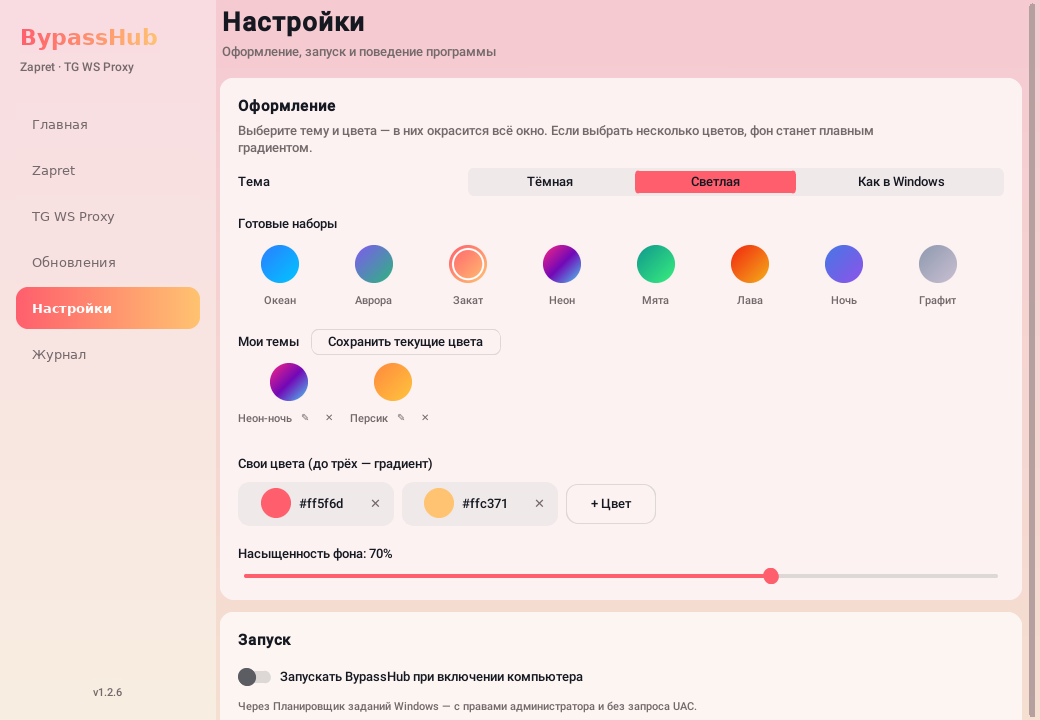
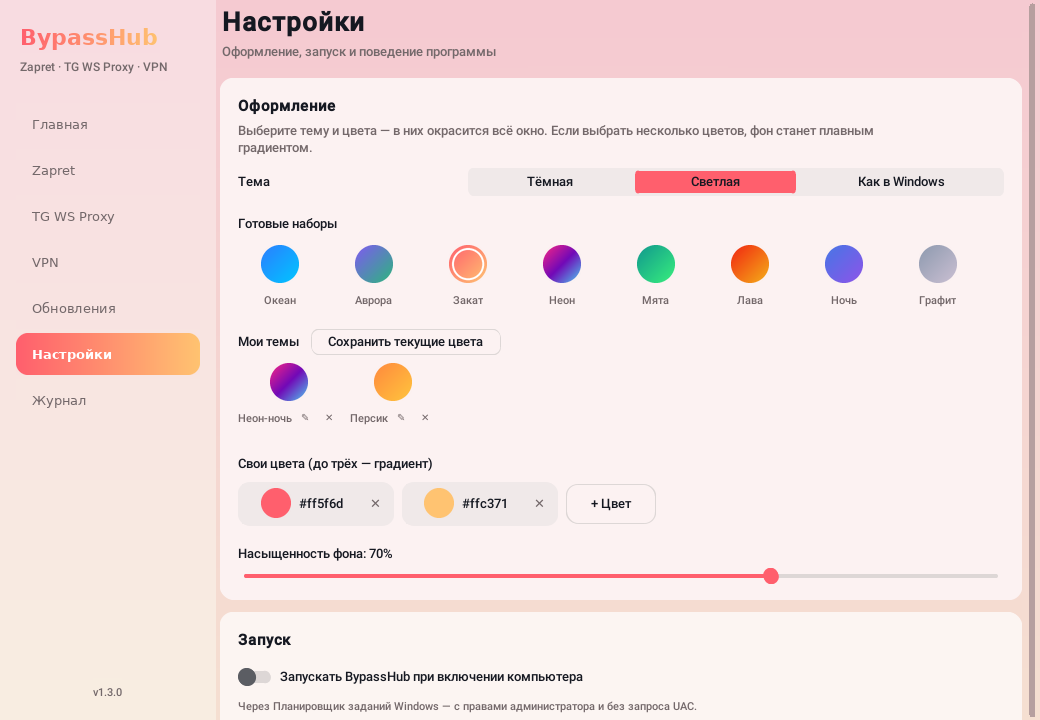
README: rewrite for the new home screen and VPN
- Describe the three-button home screen and per-service pages
- VPN and split tunneling section, updated install steps, FAQ and
  phone instructions (buttons moved to the TG WS Proxy page)
- Fresh screenshots with the VPN item in the menu; developer notes
  updated for the new home page structure

Claude-Session: https://claude.ai/code/session_019GRE8PaUXMX27CDy3uXuRW

Changed region(s): [[0.0, 0.3972, 0.2154, 0.5194], [0.0308, 0.55, 0.0923, 0.5806], [0.0308, 0.3361, 0.0615, 0.3667]]

diff --git a/README.md b/README.md
@@ -2,7 +2,7 @@
 
 # BypassHub
 
-**Zapret, TG WS Proxy и свой VPN в одной программе — включаются одной кнопкой и обновляются сами.**
+**Zapret, TG WS Proxy и свой VPN в одной программе: три кнопки — и всё работает, а обновляется само.**
 
 [![Последний релиз](https://img.shields.io/github/v/release/Miffk/BypassHub?label=%D1%80%D0%B5%D0%BB%D0%B8%D0%B7&color=7f5af0)](https://github.com/Miffk/BypassHub/releases/latest)
 [![Скачивания](https://img.shields.io/github/downloads/Miffk/BypassHub/total?label=%D1%81%D0%BA%D0%B0%D1%87%D0%B8%D0%B2%D0%B0%D0%BD%D0%B8%D1%8F&color=2cb67d)](https://github.com/Miffk/BypassHub/releases)
@@ -15,22 +15,24 @@
 
 </div>
 
-BypassHub — программа для Windows, которая собирает в одном окне:
+BypassHub — программа для Windows, которая собирает в одном окне три инструмента:
 
-- **[zapret-discord-youtube](https://github.com/Flowseal/zapret-discord-youtube)** — обход блокировок Discord, YouTube и других сайтов;
-- **[tg-ws-proxy](https://github.com/Flowseal/tg-ws-proxy)** — локальный MTProto-прокси, который ускоряет Telegram;
-- **свой VPN** — по ключу VLESS или ключу AmneziaVPN (AmneziaWG), с раздельным туннелированием: российское — напрямую.
+| | Что делает |
+|---|---|
+| **Zapret** | Обход замедления и блокировок Discord, YouTube и других сайтов — на основе [zapret-discord-youtube](https://github.com/Flowseal/zapret-discord-youtube). Без VPN и без сторонних серверов. |
+| **TG WS Proxy** | Локальный MTProto-прокси [tg-ws-proxy](https://github.com/Flowseal/tg-ws-proxy), который ускоряет Telegram на компьютере и, при желании, на телефоне. |
+| **VPN** | Свой VPN по ключу **VLESS** или ключу **AmneziaVPN** (AmneziaWG) — с раздельным туннелированием: зарубежное идёт через VPN, российское — напрямую. |
 
-Больше не нужно запускать `.bat`-файлы, вспоминать пункты `service.bat`, следить за новыми версиями на GitHub
-и вручную переносить свои списки после обновления. Всё это BypassHub делает сам, а настройки обоих проектов
-доступны обычными кнопками и переключателями.
+На главной — три большие кнопки: нажали, и сервис включился. Все настройки каждого сервиса — на его странице
+в меню слева. Не нужно запускать `.bat`-файлы, искать новые версии на GitHub и переносить свои списки после
+обновления: BypassHub делает это сам.
 
 ## Содержание
 
 - [Возможности](#возможности)
 - [Скриншоты](#скриншоты)
 - [Установка и первый запуск](#установка-и-первый-запуск)
-- [VPN](#vpn)
+- [VPN и раздельное туннелирование](#vpn-и-раздельное-туннелирование)
 - [Telegram на телефоне](#telegram-на-телефоне)
 - [Вопросы и проблемы](#вопросы-и-проблемы)
 - [Где хранятся данные](#где-хранятся-данные)
@@ -40,21 +42,20 @@ BypassHub — программа для Windows, которая собирает
 
 ## Возможности
 
-### Главное
+### Главная — три кнопки
 
-- **Главная — три большие кнопки**: Zapret, TG WS Proxy и VPN включаются и выключаются одним нажатием
-  (а ещё из трея или горячей клавишей). На кнопке — состояние и доступность Discord, YouTube и Telegram.
-- **Настройки каждого сервиса** — на его странице в меню слева; там же вверху свой переключатель и подробный статус.
-- **Проверка доступности** Discord, YouTube и Telegram — каждые 3 минуты, после каждого переключения
-  и по кнопке на странице Zapret.
-- **Автоподбор стратегии zapret**: программа по очереди пробует все стратегии, проверяет сайты по TLS 1.2 и 1.3
-  и предлагает лучшую — применить её можно одной кнопкой.
-- **Значок в трее** с быстрыми переключателями; окно можно закрыть, а обход продолжит работать.
-- **Автозапуск** при включении компьютера — через Планировщик заданий Windows, без окна UAC при каждом входе.
-  Программа запоминает, что было включено, и восстанавливает это после перезагрузки.
+- **Zapret**, **TG WS Proxy** и **VPN** включаются и выключаются одним нажатием на кнопку. Включённая кнопка
+  подсвечивается цветами темы.
+- На каждой кнопке — состояние сервиса и доступность Discord, YouTube и Telegram. Доступность проверяется каждые
+  3 минуты и после каждого переключения.
+- Переключать сервисы можно и **из трея**, и **горячими клавишами** — даже когда окно свёрнуто.
+- **Автозапуск** при включении компьютера (через Планировщик заданий Windows, без окна UAC при каждом входе).
+  Программа запоминает, что было включено, и включает это снова после перезагрузки.
 
 ### Zapret — всё, что умеет `service.bat`, но кнопками
 
+- **Автоподбор стратегии**: программа по очереди пробует все стратегии, проверяет сайты по TLS 1.2 и 1.3
+  и предлагает лучшую — применить её можно одной кнопкой.
 - Выбор стратегии (`general*.bat`) и режима запуска: **«Программа»** (winws работает, пока открыт BypassHub)
   или **«Служба Windows»** (как *Install Service* — обход работает даже без BypassHub).
 - **Game Filter** (вкл/выкл, TCP/UDP, диапазоны портов) и **IPSet Filter** (none / loaded / any), обновление IPSet-списка.
@@ -66,28 +67,31 @@ BypassHub — программа для Windows, которая собирает
 
 ### TG WS Proxy — все настройки в одном окне
 
-Адрес и порт, secret, соответствие DC → IP, Cloudflare-прокси (HTTP/2, свой домен), Cloudflare Worker, подробный журнал,
-размер буфера и пула, размер лога, тестовые DC. Кнопки **«Открыть в Telegram»** (прокси добавляется в Telegram Desktop
-в один клик), **«Скопировать ссылку»** и **«Подключить телефон»**.
+- Кнопки **«Открыть в Telegram»** (прокси добавляется в Telegram Desktop в один клик), **«Скопировать ссылку»**
+  и **«Подключить телефон»** (QR-код для Telegram на телефоне).
+- Все параметры прокси: адрес и порт, secret, соответствие DC → IP, Cloudflare-прокси (HTTP/2, свой домен),
+  Cloudflare Worker, подробный журнал, размер буфера и пула, размер лога, тестовые DC.
 
 ### VPN — свой сервер
 
-- Вставьте **ключ VLESS** (`vless://…`), **ключ AmneziaVPN** (`vpn://…`), конфиг **AmneziaWG** (`.conf`) или ссылку на
-  **подписку** — и включите VPN переключателем. Можно держать несколько серверов и переключаться между ними.
-- **Раздельное туннелирование**: через VPN идёт всё зарубежное, а российское — напрямую, с домашнего IP
-  (подробнее — в разделе [VPN](#vpn)).
-- Режимы: **«Весь трафик»** (виртуальный сетевой адаптер — через VPN идут все программы, включая игры)
-  или **«Системный прокси»** (только браузеры и программы, которые учитывают настройки прокси Windows).
-- Движки — официальные [sing-box](https://github.com/SagerNet/sing-box) (VLESS) и
-  [клиент AmneziaWG](https://github.com/amnezia-vpn/amneziawg-windows-client) (AmneziaWG, в том числе протокол 3.1);
-  скачиваются с GitHub при первом включении и обновляются сами.
+- Подходят **ключ VLESS** (`vless://…`), **ключ AmneziaVPN** (`vpn://…`), конфиг **AmneziaWG** (`.conf`)
+  и **ссылка на подписку** VPN-сервиса. Можно добавить несколько серверов и переключаться между ними одним нажатием.
+- **Раздельное туннелирование**: зарубежное — через VPN, российское — напрямую с домашнего IP
+  (подробнее — [ниже](#vpn-и-раздельное-туннелирование)).
+- Два режима: **«Весь трафик»** — через VPN идут все программы, включая игры, — или **«Системный прокси»** —
+  только браузеры и программы, которые учитывают настройки прокси Windows.
+- Работает на официальных движках [sing-box](https://github.com/SagerNet/sing-box) (VLESS: Reality, TLS, WebSocket,
+  gRPC, HTTPUpgrade) и [клиенте AmneziaWG](https://github.com/amnezia-vpn/amneziawg-windows-client) (AmneziaWG,
+  включая протокол 3.1). Они скачиваются при первом включении VPN и дальше обновляются сами.
+- Проверка серверов (время отклика), обновление подписок, переименование серверов, лог VPN.
 
 ### Обновления
 
-- BypassHub сам проверяет GitHub zapret и tg-ws-proxy — при запуске и каждые 6 часов (интервал настраивается).
+- BypassHub сам следит за новыми версиями на GitHub: zapret, tg-ws-proxy, sing-box, клиент AmneziaWG и базы
+  раздельного туннелирования. Проверка — при запуске и каждые 6 часов (интервал настраивается).
 - Новые версии скачиваются и **проверяются по SHA-256**, который публикует GitHub.
 - Ваши настройки zapret (списки, Game Filter, IPSet, фейки, свои стратегии) **переносятся в новую версию**,
-  работающий обход перезапускается сам. Старые версии и временные файлы удаляются.
+  работающий сервис перезапускается сам. Старые версии и временные файлы удаляются.
 - **Самообновление**: сама программа тоже обновляется из [релизов](https://github.com/Miffk/BypassHub/releases)
   этого репозитория — скачивает новый `BypassHub.exe`, подменяет себя и перезапускается.
 
@@ -114,23 +118,24 @@ BypassHub — программа для Windows, которая собирает
 
 Любое сочетание меняется в «Настройках» (нажать на него и затем новые клавиши), каждое можно отключить,
 а можно выключить все сразу. Если сочетание уже занято другой программой, BypassHub об этом скажет.
+Когда окно скрыто, результат переключения показывается уведомлением.
 
 ### Прочее
 
-- **Резервная копия**: экспорт и импорт всех настроек (BypassHub, zapret, TG WS Proxy, серверы VPN) в один JSON-файл — удобно при переустановке Windows.
-  В файле будут и ключи VPN — храните его как пароль.
+- **Резервная копия**: экспорт и импорт всех настроек (BypassHub, zapret, TG WS Proxy, серверы VPN) в один
+  JSON-файл — удобно при переустановке Windows. В файле будут и ключи VPN — храните его как пароль.
 - **Журнал** событий прямо в программе.
 
 ## Скриншоты
 
 <table>
   <tr>
-    <td align="center"><img src="docs/screenshots/zapret.png" alt="Настройки zapret"><br><sub>Настройки zapret</sub></td>
-    <td align="center"><img src="docs/screenshots/tg-proxy.png" alt="Настройки TG WS Proxy"><br><sub>TG WS Proxy</sub></td>
+    <td align="center"><img src="docs/screenshots/zapret.png" alt="Zapret"><br><sub>Zapret: переключатель, стратегия и все настройки</sub></td>
+    <td align="center"><img src="docs/screenshots/tg-proxy.png" alt="TG WS Proxy"><br><sub>TG WS Proxy</sub></td>
   </tr>
   <tr>
+    <td align="center"><img src="docs/screenshots/vpn.png" alt="VPN"><br><sub>VPN: серверы VLESS и AmneziaWG</sub></td>
     <td align="center"><img src="docs/screenshots/settings-light.png" alt="Светлая тема и свои цвета"><br><sub>Светлая тема и свои цвета</sub></td>
-    <td align="center"><img src="docs/screenshots/color-picker.png" width="300" alt="Выбор цвета"><br><sub>Выбор цвета</sub></td>
   </tr>
 </table>
 
@@ -139,25 +144,30 @@ BypassHub — программа для Windows, которая собирает
 1. Скачайте `BypassHub.exe` со страницы **[Releases](https://github.com/Miffk/BypassHub/releases/latest)**.
    Положите его в любую удобную папку (например, `C:\Programs\BypassHub`) — установка не нужна.
 2. Запустите. Windows попросит права администратора: они нужны драйверу WinDivert, на котором работает zapret,
-   а также для служб и файла `hosts`.
+   а также для служб, файла `hosts` и сетевого адаптера VPN.
 3. При первом запуске BypassHub сам скачает последние версии zapret и tg-ws-proxy.
-4. Включите zapret на главной. Если Discord или YouTube не открываются — откройте Zapret в меню слева и нажмите **«Подобрать стратегию»**,
-   и программа найдёт рабочую стратегию для вашего провайдера.
-5. Включите TG WS Proxy и на его странице нажмите **«Открыть в Telegram»** — Telegram Desktop предложит добавить прокси.
-6. По желанию: в «Настройках» включите автозапуск, чтобы всё работало сразу после включения компьютера.
+4. На главной нажмите **Zapret**. Если Discord или YouTube не открываются — откройте Zapret в меню слева
+   и нажмите **«Подобрать стратегию»**: программа найдёт рабочую стратегию для вашего провайдера.
+5. Нажмите **TG WS Proxy**, затем на его странице — **«Открыть в Telegram»**: Telegram Desktop предложит добавить прокси.
+6. Если у вас есть свой VPN-сервер — добавьте ключ на странице VPN и нажмите **VPN** на главной
+   (см. [раздел про VPN](#vpn-и-раздельное-туннелирование)).
+7. По желанию: в «Настройках» включите автозапуск, чтобы всё работало сразу после включения компьютера.
 
 > [!TIP]
 > Если Windows Defender или другой антивирус ругается на zapret — это ожидаемо, см. [вопросы](#вопросы-и-проблемы).
 
-## VPN
+## VPN и раздельное туннелирование
 
-<img align="right" src="docs/screenshots/vpn.png" width="420" alt="Вкладка VPN">
+<img align="right" src="docs/screenshots/vpn.png" width="420" alt="Страница VPN">
 
-1. Откройте вкладку **VPN** и вставьте ключ: `vless://…` от вашего VPN-сервиса, ключ AmneziaVPN `vpn://…`
-   (в AmneziaVPN: сервер → «Поделиться») или ссылку на подписку. Конфиг AmneziaWG можно выбрать файлом.
-2. Включите VPN на главной. При первом включении BypassHub скачает нужный движок — это занимает несколько секунд.
+**Как подключить**
 
-**Раздельное туннелирование** (включено по умолчанию):
+1. Откройте **VPN** в меню слева и вставьте ключ: `vless://…` от вашего VPN-сервиса, ключ AmneziaVPN `vpn://…`
+   (в AmneziaVPN: сервер → «Поделиться») или ссылку на подписку. Конфиг AmneziaWG можно выбрать файлом `.conf`.
+2. Нажмите **VPN** на главной. При первом включении BypassHub скачает нужный движок — это несколько секунд.
+3. Если открыт AmneziaVPN или другой VPN-клиент — сначала отключитесь в нём.
+
+**Раздельное туннелирование** (включено по умолчанию)
 
 - через VPN идёт всё зарубежное;
 - напрямую, с домашнего IP, идут сайты `.ru`, `.рф`, `.su` со всеми поддоменами, российские IP-адреса и российские
@@ -165,12 +175,11 @@ BypassHub — программа для Windows, которая собирает
   [roscomvpn](https://github.com/hydraponique/roscomvpn-routing);
 - YouTube, Telegram, GitHub и Google Play всегда идут через VPN, даже если их сервер оказался на российском IP.
 
-Российский трафик вообще не попадает на VPN-сервер, а банки и Госуслуги видят обычный домашний адрес. Базы
-обновляются автоматически.
+Российский трафик вообще не попадает на VPN-сервер: банки и Госуслуги видят обычный домашний адрес, а сервер
+не тратит трафик. Базы обновляются автоматически.
 
-Для AmneziaWG раздельное туннелирование работает так: туннель AmneziaWG поднимается без своих маршрутов, а sing-box
-решает, что отправить в туннель, а что — напрямую. Если раздельное туннелирование выключить, через AmneziaWG идёт
-весь трафик, как в AmneziaVPN.
+Для AmneziaWG это работает так: туннель AmneziaWG поднимается без своих маршрутов, а sing-box решает, что отправить
+в туннель, а что — напрямую. Если раздельное туннелирование выключить, через VPN идёт весь трафик, как в AmneziaVPN.
 
 > [!IMPORTANT]
 > Ключ VPN — это пароль от вашего сервера. Не публикуйте его и не пересылайте. Если ключ попал в чужие руки,
@@ -184,13 +193,13 @@ BypassHub — программа для Windows, которая собирает
 
 <img align="right" src="docs/screenshots/phone.png" width="400" alt="Подключение телефона">
 
-1. На главной нажмите **«Подключить телефон»**.
+1. Откройте **TG WS Proxy** в меню слева и нажмите **«Подключить телефон»**.
 2. BypassHub откроет прокси для домашней сети и сам добавит правило в брандмауэр Windows.
 3. Наведите камеру телефона на QR-код, откройте ссылку — запустится Telegram.
 4. Нажмите «Подключить прокси».
 
 Адрес компьютера выбирается автоматически: адаптеры VPN и виртуальных машин пропускаются.
-Если на компьютере включён VPN, программа предупредит — он может мешать подключению.
+Если на компьютере включён сторонний VPN, программа предупредит — он может мешать подключению.
 Кнопка **«Отключить доступ»** закрывает прокси для сети и удаляет правило брандмауэра.
 
 <br clear="right">
@@ -210,33 +219,26 @@ BypassHub скачивает только официальные релизы za
 <summary><b>Discord или YouTube всё равно не работают</b></summary>
 
 - Нажмите «Подобрать стратегию» на странице Zapret — разным провайдерам подходят разные стратегии.
-- В разделе Zapret откройте диагностику: она найдёт конфликтующие службы (другие копии zapret, GoodbyeDPI и т. п.)
+- На странице Zapret откройте диагностику: она найдёт конфликтующие службы (другие копии zapret, GoodbyeDPI и т. п.)
   и может очистить кэш Discord.
 - Убедитесь, что не запущен другой zapret или GoodbyeDPI — одновременно работать может только один.
-- Обновите IPSet-список и файл `hosts` в разделе Zapret.
+- Обновите IPSet-список и файл `hosts` на странице Zapret.
 </details>
 
 <details>
 <summary><b>Перестали работать игры или Steam</b></summary>
 
-В разделе Zapret отметьте нужные программы в «Исключениях» или выключите Game Filter.
+На странице Zapret отметьте нужные программы в «Исключениях» или выключите Game Filter.
 zapret работает на уровне сетевых пакетов и не знает, какой программе принадлежит пакет, поэтому исключение
 программы — это исключение её доменов (и, в экспериментальном режиме, IP-адресов, к которым она подключена).
 </details>
 
 <details>
-<summary><b>Телефон не подключается к прокси</b></summary>
+<summary><b>Нужен ли zapret, если включён VPN?</b></summary>
 
-- Телефон и компьютер должны быть в одной Wi-Fi-сети (не в гостевой — там устройства изолированы).
-- Выключите VPN на компьютере и на телефоне.
-- Проверьте, что в окне «Подключить телефон» выбран адрес домашней сети (обычно `192.168.x.x`).
-</details>
-
-<details>
-<summary><b>Работает ли с VPN?</b></summary>
-
-Обычно VPN и zapret одновременно не нужны: VPN и так шифрует весь трафик. Если VPN включён, трафик идёт через него,
-и zapret на сайты, которые открываются через VPN, не влияет.
+Обычно нет: с VPN зарубежные сайты и так открываются. Zapret полезен без VPN — например, если VPN-сервера нет или
+не хочется гонять YouTube через сервер. Если при включённых zapret и VPN что-то перестало открываться,
+выключите zapret.
 </details>
 
 <details>
@@ -245,15 +247,24 @@ zapret работает на уровне сетевых пакетов и не 
 - Если открыт AmneziaVPN, Hiddify, v2rayN или другой VPN — отключите его: два VPN одновременно мешают друг другу.
 - Ключи VLESS с транспортом XHTTP пока не поддерживаются движком sing-box — попросите у VPN-сервиса ключ
   с TCP (Reality), WebSocket или gRPC.
-- Ошибки подключения видны во вкладке «Журнал» и в логе VPN (кнопка «Лог VPN» на вкладке VPN).
-- Если какой-то сайт не открывается при раздельном туннелировании, выключите его на вкладке VPN — тогда через VPN
+- Ошибки подключения видны во вкладке «Журнал» и в логе VPN (кнопка «Лог VPN» на странице VPN).
+- Если какой-то сайт не открывается при раздельном туннелировании, выключите его на странице VPN — тогда через VPN
   пойдёт весь трафик.
+</details>
+
+<details>
+<summary><b>Телефон не подключается к прокси</b></summary>
+
+- Телефон и компьютер должны быть в одной Wi-Fi-сети (не в гостевой — там устройства изолированы).
+- Выключите сторонний VPN на компьютере и VPN на телефоне.
+- Проверьте, что в окне «Подключить телефон» выбран адрес домашней сети (обычно `192.168.x.x`).
 </details>
 
 <details>
 <summary><b>Как удалить BypassHub</b></summary>
 
-1. В «Настройках» выключите автозапуск, а в разделе Zapret — удалите службы (если включали режим «Служба Windows»).
+1. Выключите VPN, в «Настройках» выключите автозапуск, а на странице Zapret удалите службы
+   (если включали режим «Служба Windows»).
 2. Закройте программу через значок в трее → «Выход».
 3. Удалите `BypassHub.exe` и папку `C:\ProgramData\BypassHub`.
 </details>
@@ -264,7 +275,7 @@ zapret работает на уровне сетевых пакетов и не 
 
 ```
 C:\ProgramData\BypassHub\
-  settings.json     настройки BypassHub
+  settings.json     настройки BypassHub (в том числе серверы VPN)
   zapret\           релиз zapret-discord-youtube с вашими списками и настройками
   tgwsproxy\        TgWsProxy.exe + TgWsProxy_data\config.json (портативный режим)
   vpn\sing-box\     sing-box.exe, config.json и базы раздельного туннелирования
@@ -280,7 +291,7 @@ C:\ProgramData\BypassHub\
 - Сам `BypassHub.exe` собирается **GitHub Actions** из исходников этого репозитория — сборку любого релиза можно
   проследить во вкладке [Actions](https://github.com/Miffk/BypassHub/actions/workflows/bypasshub.yml).
 - Программа не собирает и не отправляет никаких данных. В сеть она обращается только к GitHub (обновления),
-  к проверяемым сайтам — Discord, YouTube, Telegram и т. п. (индикаторы доступности и подбор стратегии) — и к вашим
+  к проверяемым сайтам — Discord, YouTube, Telegram и т. п. (проверка доступности и подбор стратегии) — и к вашим
   VPN-серверам и подпискам.
 - Ключи VPN хранятся только у вас, в `C:\ProgramData\BypassHub\settings.json`.
 - Права администратора нужны только для zapret (драйвер WinDivert), служб Windows, файла `hosts`, правила брандмауэра

diff --git a/BypassHub/README.md b/BypassHub/README.md
@@ -6,10 +6,11 @@
 
 - **[zapret-discord-youtube](https://github.com/Flowseal/zapret-discord-youtube)** — обход блокировок Discord, YouTube и др.;
 - **[tg-ws-proxy](https://github.com/Flowseal/tg-ws-proxy)** — локальный MTProto-прокси, ускоряющий Telegram Desktop.
+- **свой VPN** — ключи VLESS (sing-box) и AmneziaVPN/AmneziaWG (официальный клиент AmneziaWG), см. раздел «VPN» ниже.
 
 ## Возможности
 
-**Главная** — два переключателя «вкл/выкл» (zapret и TG WS Proxy), индикаторы «Discord / YouTube / Telegram доступны» (проверка каждые 3 минуты и после переключения), выбор стратегии, кнопки «Подобрать» и «Открыть в Telegram».
+**Главная** (`gui/home_page.py`) — три плитки `W.PowerTile` (Zapret, TG WS Proxy, VPN): нажатие включает или выключает сервис. Состояние каждого сервиса хранит `ServiceControl`: он обновляет плитку и шапку `ServiceCard` вверху страницы сервиса (переключатель + подробный статус). Логика переключения (`toggle_*`, `apply_vpn`, проверка доступности) живёт в `HomePage` — её вызывают страницы, трей и горячие клавиши.
 
 **Zapret** — всё, что умеет `service.bat`, но кнопками:
 - **автоподбор стратегии** прямо в программе: все стратегии запускаются по очереди, проверяются сайты из `utils/targets.txt` (TLS 1.2 и 1.3), лучшая применяется одной кнопкой;
